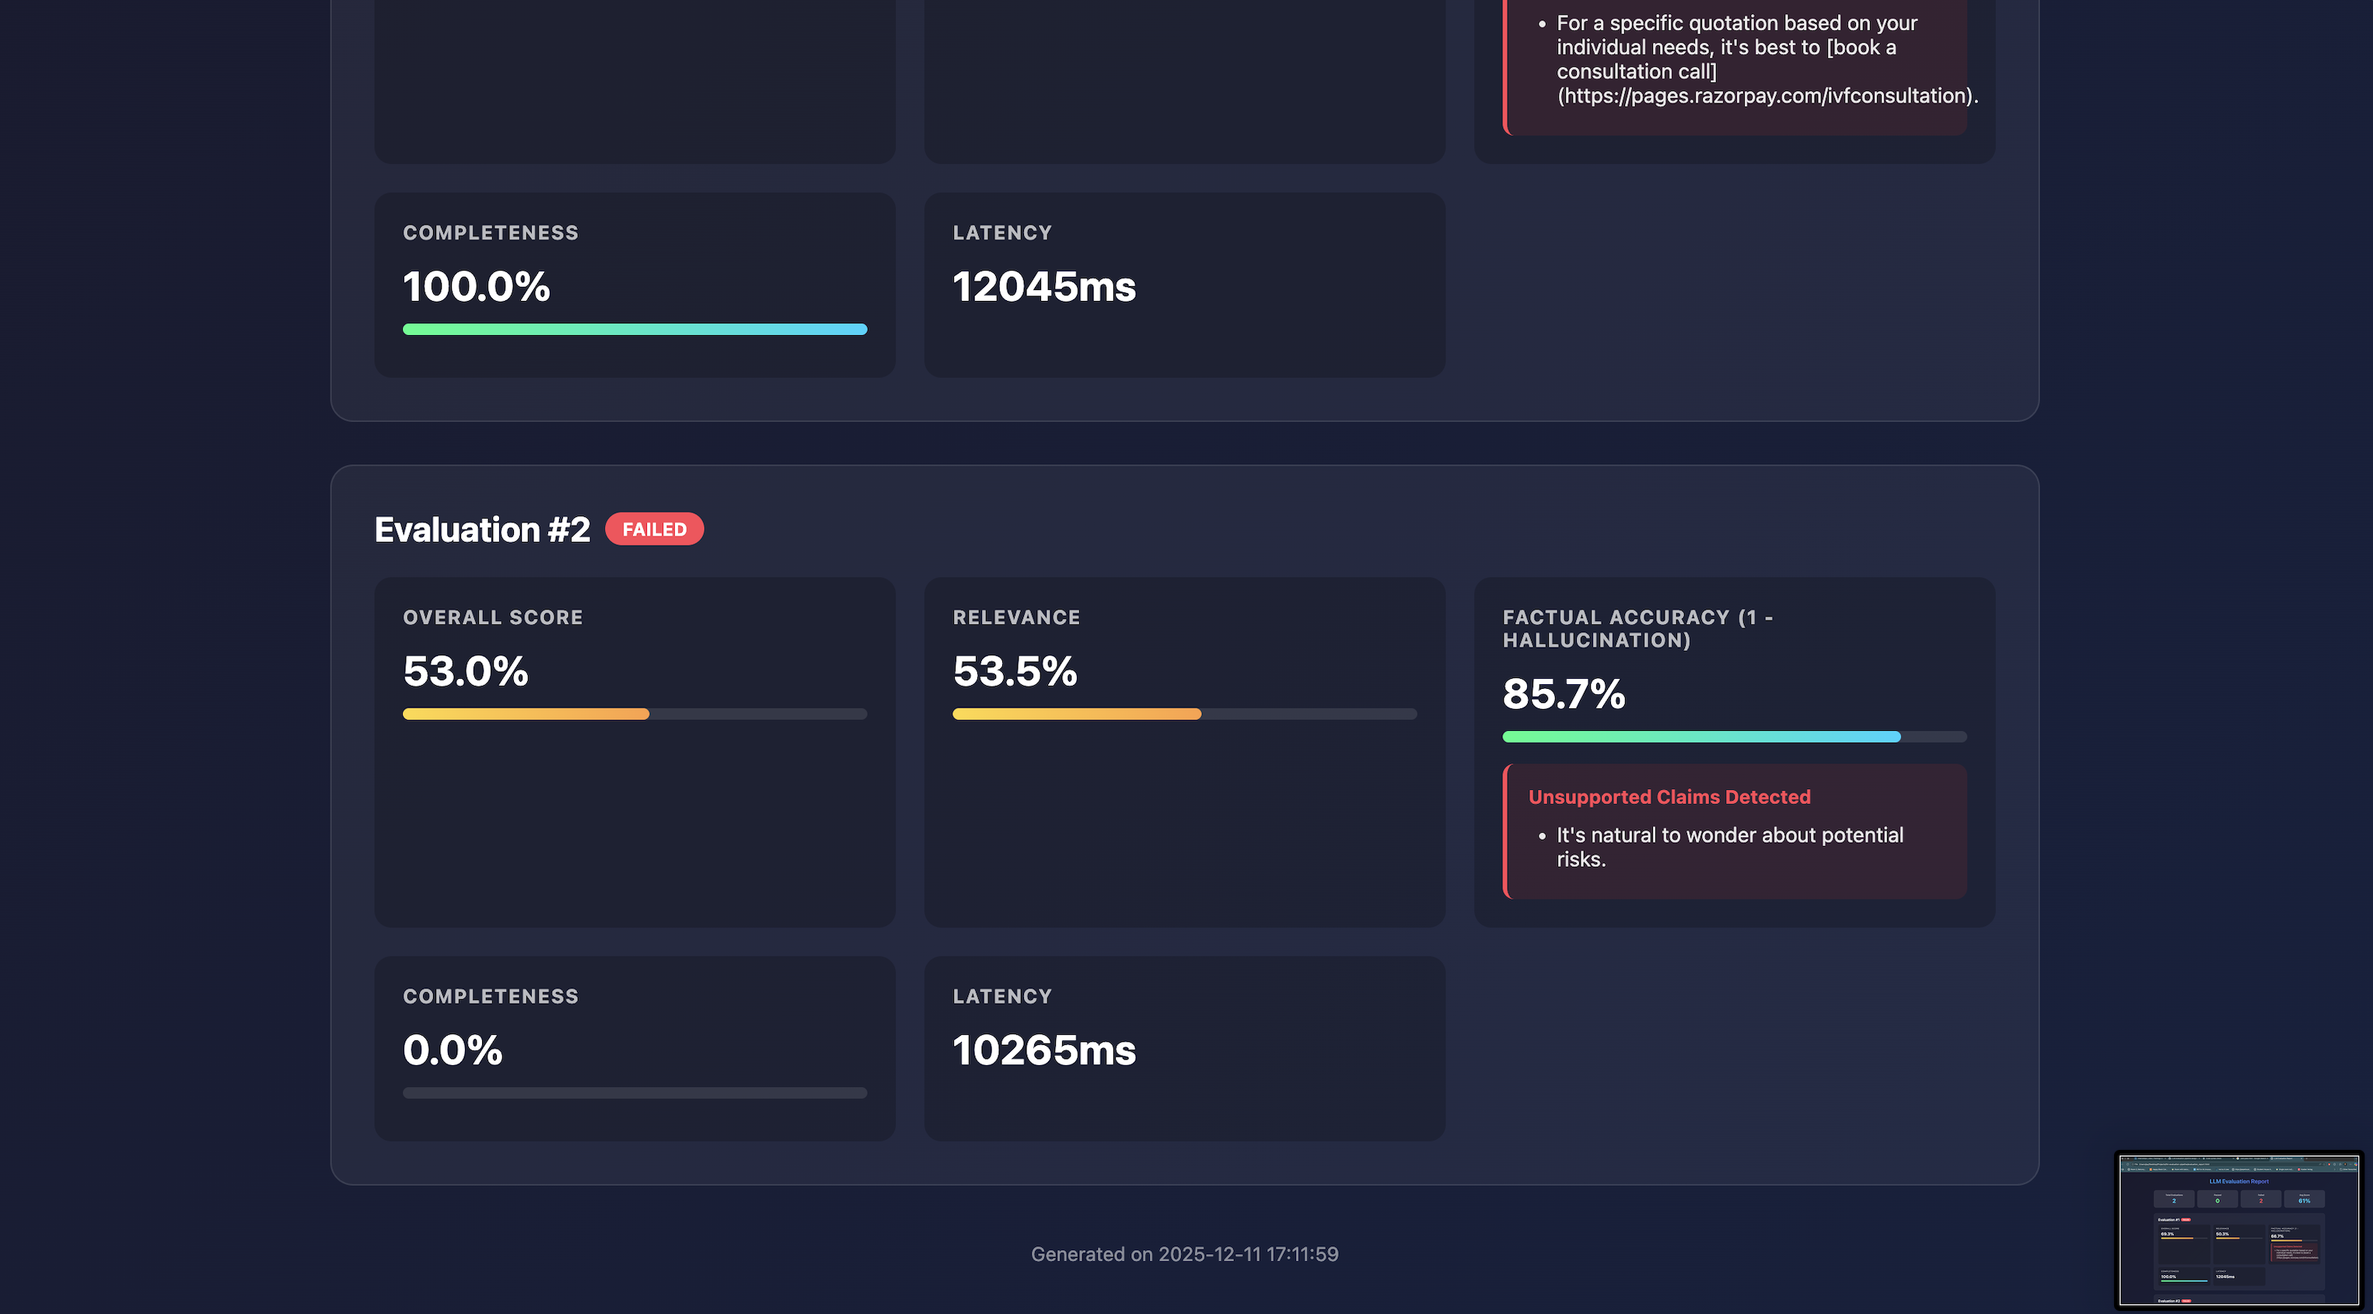
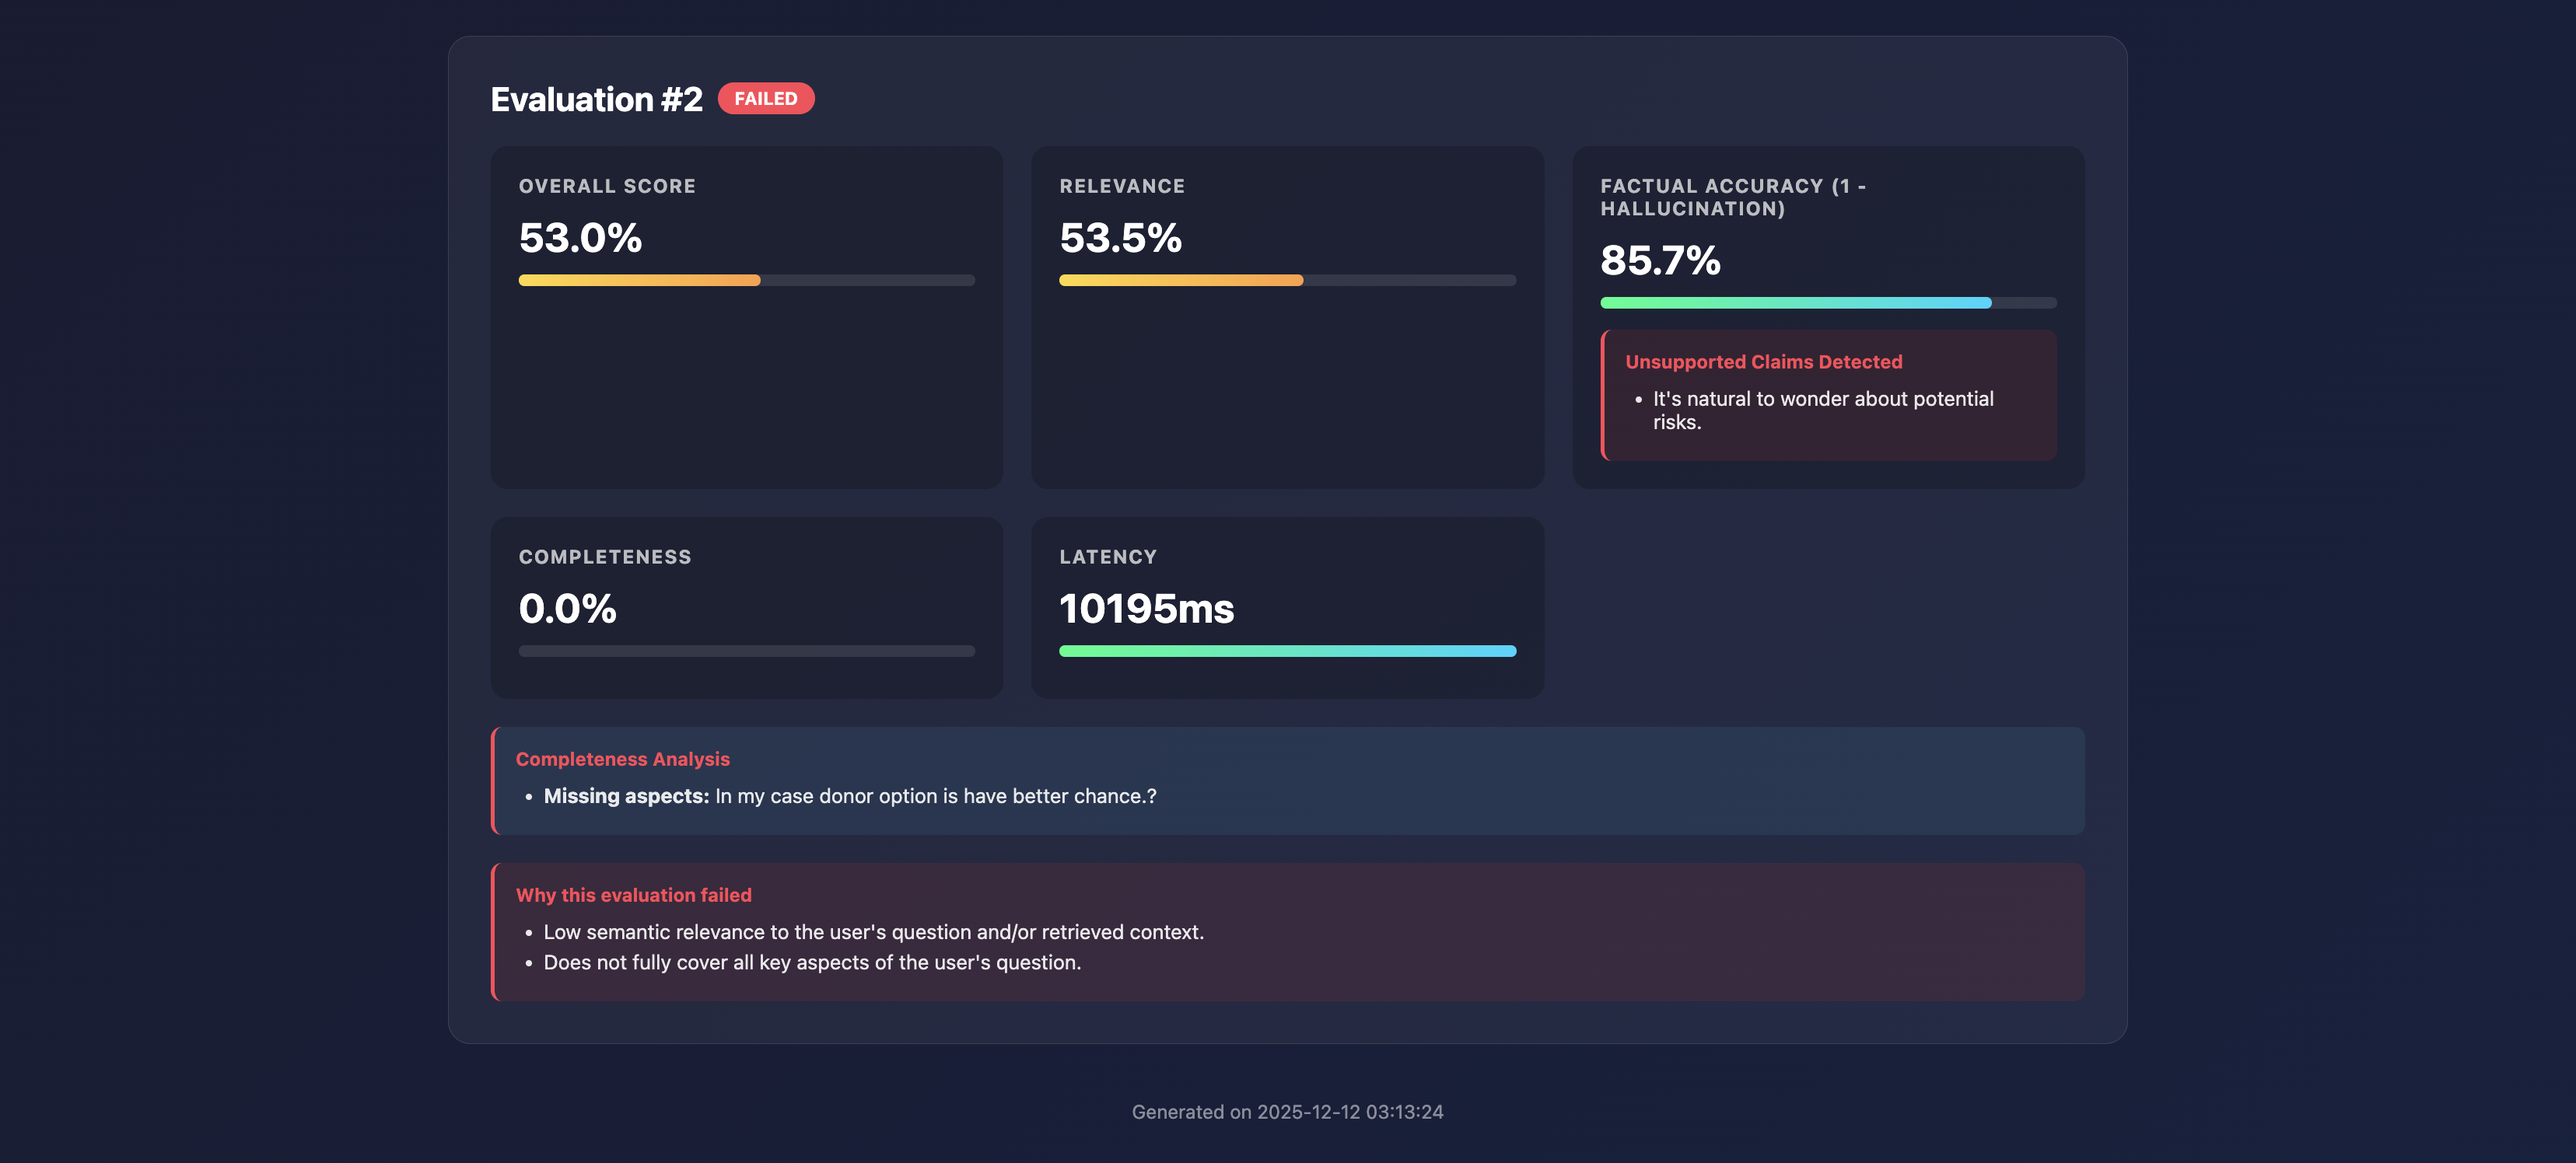
Updated Report Template

diff --git a/evaluation_report.html b/evaluation_report.html
@@ -195,9 +195,29 @@
                 
                 <div class="metric">
                     <h4>Latency</h4>
-                    <div class="score-value">12045ms</div>
+                    <div class="score-value">11865ms</div>
+                    <div class="score-bar">
+                        <div class="score-fill good" style="width: 100%"></div>
+                    </div>
                 </div>
             </div>
+
+            
+            <div class="claims-list" style="background: rgba(0, 212, 255, 0.08); margin-top: 20px;">
+                <h5>Completeness Analysis</h5>
+                <ul>
+                    <li><strong>Covered aspects:</strong> the cost of one circle of ivf/icsi at your facility</li>
+                </ul>
+            </div>
+            
+            
+            <div class="claims-list" style="margin-top: 20px;">
+                <h5>Why this evaluation failed</h5>
+                <ul>
+                    <li>Low semantic relevance to the user's question and/or retrieved context.</li>
+                </ul>
+            </div>
+            
         </div>
         
         <div class="evaluation">
@@ -249,13 +269,33 @@
                 
                 <div class="metric">
                     <h4>Latency</h4>
-                    <div class="score-value">10265ms</div>
+                    <div class="score-value">10195ms</div>
+                    <div class="score-bar">
+                        <div class="score-fill good" style="width: 100%"></div>
+                    </div>
                 </div>
             </div>
+
+            
+            <div class="claims-list" style="background: rgba(0, 212, 255, 0.08); margin-top: 20px;">
+                <h5>Completeness Analysis</h5>
+                <ul>
+                    <li><strong>Missing aspects:</strong> In my case donor option is have better chance.?</li>
+                </ul>
+            </div>
+            
+            
+            <div class="claims-list" style="margin-top: 20px;">
+                <h5>Why this evaluation failed</h5>
+                <ul>
+                    <li>Low semantic relevance to the user's question and/or retrieved context.</li><li>Does not fully cover all key aspects of the user's question.</li>
+                </ul>
+            </div>
+            
         </div>
         
         
-        <p class="timestamp">Generated on 2025-12-11 17:11:59</p>
+        <p class="timestamp">Generated on 2025-12-12 03:13:24</p>
     </div>
 </body>
 </html>

diff --git a/evaluator/report.py b/evaluator/report.py
@@ -194,6 +194,7 @@ def generate_html_report(results: list, output_path: str = "report.html"):
                 return 'medium'
             return 'bad'
         
+        # Unsupported claims (hallucination details)
         unsupported_html = ""
         unsupported = hallucination.get('unsupported_claims', [])
         if unsupported:
@@ -202,6 +203,64 @@ def generate_html_report(results: list, output_path: str = "report.html"):
             <div class="claims-list">
                 <h5>Unsupported Claims Detected</h5>
                 <ul>{claims_li}</ul>
+            </div>
+            """
+
+        # Completeness analysis (covered vs missing aspects)
+        completeness_details_html = ""
+        covered_aspects = completeness.get("covered_aspects", []) or []
+        missing_aspects = completeness.get("missing_aspects", []) or []
+
+        if covered_aspects or missing_aspects:
+            coverage_items = []
+            if covered_aspects:
+                coverage_items.append(
+                    "<li><strong>Covered aspects:</strong> " + ", ".join(covered_aspects) + "</li>"
+                )
+            if missing_aspects:
+                coverage_items.append(
+                    "<li><strong>Missing aspects:</strong> " + ", ".join(missing_aspects) + "</li>"
+                )
+
+            completeness_details_html = f"""
+            <div class="claims-list" style="background: rgba(0, 212, 255, 0.08); margin-top: 20px;">
+                <h5>Completeness Analysis</h5>
+                <ul>
+                    {''.join(coverage_items)}
+                </ul>
+            </div>
+            """
+
+        # High-level explanation of why this evaluation passed/failed
+        reason_items = []
+
+        if not relevance.get("is_relevant", True):
+            reason_items.append(
+                "<li>Low semantic relevance to the user's question and/or retrieved context.</li>"
+            )
+        if hallucination.get("is_hallucinated", False):
+            reason_items.append(
+                "<li>Contains one or more unsupported or hallucinated claims.</li>"
+            )
+        if not completeness.get("is_complete", True):
+            reason_items.append(
+                "<li>Does not fully cover all key aspects of the user's question.</li>"
+            )
+
+        if not reason_items and is_passed:
+            reason_items.append(
+                "<li>Meets thresholds for relevance, factual accuracy, and completeness.</li>"
+            )
+
+        diagnostic_html = ""
+        if reason_items:
+            heading = "Why this evaluation failed" if not is_passed else "Why this evaluation passed"
+            diagnostic_html = f"""
+            <div class="claims-list" style="margin-top: 20px;">
+                <h5>{heading}</h5>
+                <ul>
+                    {''.join(reason_items)}
+                </ul>
             </div>
             """
         
@@ -233,9 +292,9 @@ def generate_html_report(results: list, output_path: str = "report.html"):
                 
                 <div class="metric">
                     <h4>Factual Accuracy (1 - Hallucination)</h4>
-                    <div class="score-value">{(1-hallucination.get('score', 0)):.1%}</div>
+                    <div class="score-value">{(1 - hallucination.get('score', 0)):.1%}</div>
                     <div class="score-bar">
-                        <div class="score-fill {get_score_class(hallucination.get('score', 0), inverse=True)}" style="width: {(1-hallucination.get('score', 0))*100}%"></div>
+                        <div class="score-fill {get_score_class(hallucination.get('score', 0), inverse=True)}" style="width: {(1 - hallucination.get('score', 0))*100}%"></div>
                     </div>
                     {unsupported_html}
                 </div>
@@ -251,8 +310,14 @@ def generate_html_report(results: list, output_path: str = "report.html"):
                 <div class="metric">
                     <h4>Latency</h4>
                     <div class="score-value">{latency.get('total_ms', 0):.0f}ms</div>
+                    <div class="score-bar">
+                        <div class="score-fill good" style="width: 100%"></div>
+                    </div>
                 </div>
             </div>
+
+            {completeness_details_html}
+            {diagnostic_html}
         </div>
         """
     
